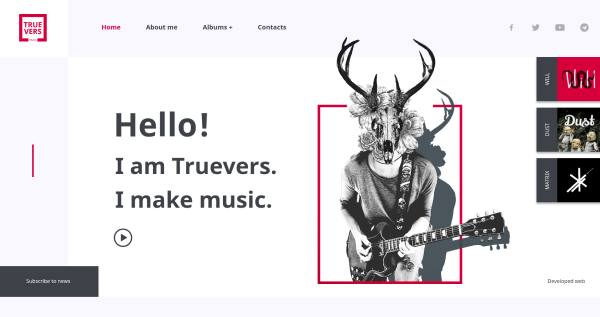
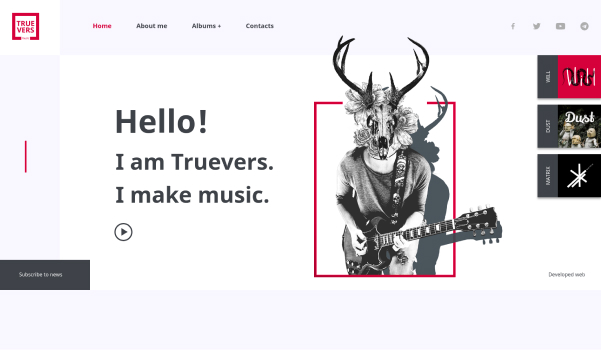
Added sorting to 'Portfolio.vue'.

diff --git a/src/components/Portfolio.vue b/src/components/Portfolio.vue
@@ -8,19 +8,27 @@
         <section class="portfolio-toolbar">
           <div class="portfolio-toolbar__title">Truevers: <span class="subtitle-1 portfolio-toolbar__description">Lorem ipsum dolor sit amet, consectetur adipisicing elit. Eveniet, expedita.</span></div>
           <div>
-            <v-btn class="subtitle-1 portfolio-toolbar__button" text tile>All works /</v-btn>
-            <v-btn class="subtitle-1 portfolio-toolbar__button" text tile> Web sites /</v-btn>
-            <v-btn class="subtitle-1 portfolio-toolbar__button" text tile>Lending page /</v-btn>
-            <v-btn class="subtitle-1 portfolio-toolbar__button" text tile>Online store /</v-btn>
-            <v-btn class="subtitle-1 portfolio-toolbar__button" text tile>Portals and web services /</v-btn>
+            <v-btn class="subtitle-1 portfolio-toolbar__button" text tile @click="searchName=''">All works /</v-btn>
+            <v-btn class="subtitle-1 portfolio-toolbar__button" text tile @click="searchName='web_sites'"> Web sites /</v-btn>
+            <v-btn class="subtitle-1 portfolio-toolbar__button" text tile @click="searchName='lending_page'">Lending page /</v-btn>
+            <v-btn disabled class="subtitle-1 portfolio-toolbar__button" text tile @click="searchName='online_store'">Online store /</v-btn>
+            <v-btn disabled class="subtitle-1 portfolio-toolbar__button" text tile @click="searchName='Portals_and_web_services'">Portals and web services /</v-btn>
           </div>
-        </section>  
+         <!--  <input type="text" v-model="searchName">
+         <button @click="searchName='2'">Number 2</button>
+         <button @click="searchName='3'">Number 3</button> -->
+          <!-- <ul class="list">
+            <li 
+              v-for="name of filteredNames" :key="name.id">{{name}}</li>
+          </ul> -->
+        </section>
         </v-col>
       </v-row>    
       <v-row>
         <v-col sm="12"
-          v-for="theme in portfolio"
-          :key="theme.name" 
+          v-for="theme in filteredNames"
+          :key="theme.name"
+          
         >
           <v-card 
             dark
@@ -49,6 +57,7 @@
                   class="portfolio-card__image"
                   :src="theme.imageSrc"
                   position="top">
+                    <a class="portfolio-card__image-link" v-bind:href="theme.src" target="_blank"></a>
                 </v-img>
               </v-col>
             </v-row>
@@ -63,6 +72,7 @@
   export default {
     data () {
       return {
+        searchName: '',
         portfolio: [
           {
             name: 'Meduza OS',
@@ -72,6 +82,8 @@
             data: '2019',
             github: 'https://github.com/deevkv/meduzaos',
             imageSrc: require('@/assets/img/meduzaos.jpg'),
+            src: 'https://deevkv.github.io/meduzaos',
+            category: 'web_sites'
           },
           {
             name: 'Truevers Music',
@@ -81,6 +93,8 @@
             data: '2019',
             github: 'https://github.com/deevkv/truevers_music',
             imageSrc: require('@/assets/img/truevers_music.jpg'),
+            src: 'https://deevkv.github.io/truevers_music',
+            category: 'web_sites'
           },
           {
             name: 'Tatoo Studio',
@@ -90,6 +104,8 @@
             data: '2019',
             github: 'https://github.com/deevkv/tattoo',
             imageSrc: require('@/assets/img/tatoo.jpg'),
+            src: 'https://deevkv.github.io/tattoo',
+            category: 'lending_page'
           },
           {
             name: 'Portfolio',
@@ -99,8 +115,23 @@
             data: '2020',
             github: 'https://github.com/deevkv/portfolio',
             imageSrc: 'https://cdn.vuetifyjs.com/images/cards/docks.jpg',
+            src: 'https://deevkv.github.io',
+            category: 'web_sites'
           }   
+        ],
+        /*names: ['Vlad', 'Max', 'Elena']*/
+        names: [
+          {id: '1', name: "Вася"},
+          {id: '2', name: "Петя"},
+          {id: '3', name: "Маша"}
         ]
+      }
+    },
+    computed: {
+      filteredNames: function() {
+        return this.portfolio.filter(elem => {
+          return elem.category.indexOf(this.searchName) !== -1;
+        })
       }
     }
   }
@@ -108,6 +139,14 @@
 
 <style lang="scss">
   @import '@/assets/sass/variables.sass';
+
+  input {
+    border: 1px solid orange !important;
+  }
+
+  .list {
+    color: #000;
+  }
 
   .portfolio {
     height: 100%;
@@ -145,6 +184,22 @@
     text-transform: none !important;
     color: $main-color !important; 
   }
+
+  .portfolio-card {
+    opacity: 0;
+    animation: show 1.5s;
+    animation-fill-mode: forwards;
+    transition: 0.2s;
+  }
+
+  @keyframes show{
+    0%{
+      opacity:0;
+    }
+    100% {
+      opacity:1;
+    }
+  }  
 
   .portfolio-card__description-block {
      position: relative;
@@ -192,15 +247,29 @@
 
   .portfolio-card__image {
     height: 160px;
-    border-left: 8px solid #202020/* #a7a7a7 */;
-    border-right: 8px solid #202020/* #a7a7a7 */;
+    border-left: 8px solid #202020;
+    border-right: 8px solid #202020;
+    opacity: 0.8;
+    transition: 0.2s;
+    animation: showImage 1s;
+    animation-fill-mode: forwards;
+  }
+
+  .portfolio-card__image:hover {
+    opacity: 1;
   }
 
   @media (max-width: 1263px) {
 
     .portfolio-card__image {
-      height: 100%;
+      /* height: 100%; */
     }
+  }
+
+  .portfolio-card__image-link {
+    display: block;
+    width: 100%;
+    height: 100%;
   }
 
   @media (max-width: 600px) {
@@ -216,5 +285,10 @@
     .portfolio-card__image {
       height: 100px;
     }
+
+    .portfolio-card__description-block::before {
+      display: none;
+    }
+
   }
 </style>

diff --git a/src/components/Home.vue b/src/components/Home.vue
@@ -7,7 +7,7 @@
             <v-card
               dark
               tile
-              class="mx-auto home__card"
+              class="mx-auto elevation-8 home__card"
               max-width="700"
               min-height="250"
               color="#141414"

diff --git a/src/assets/sass/variables.sass b/src/assets/sass/variables.sass
@@ -1,4 +1,4 @@
 $card-color: #141414 /*#1F1F1F*/
-$body-background: #252528 /*#666678*/ /*#2a2a2d*//* #767685 */ 
+$body-background: #3e3e41 /* #252528*/ /*#666678*/ /*#2a2a2d*//* #767685 */ 
 $main-color: #37ff58 /*#22F600 */
 $visit-color: #fdaf50
